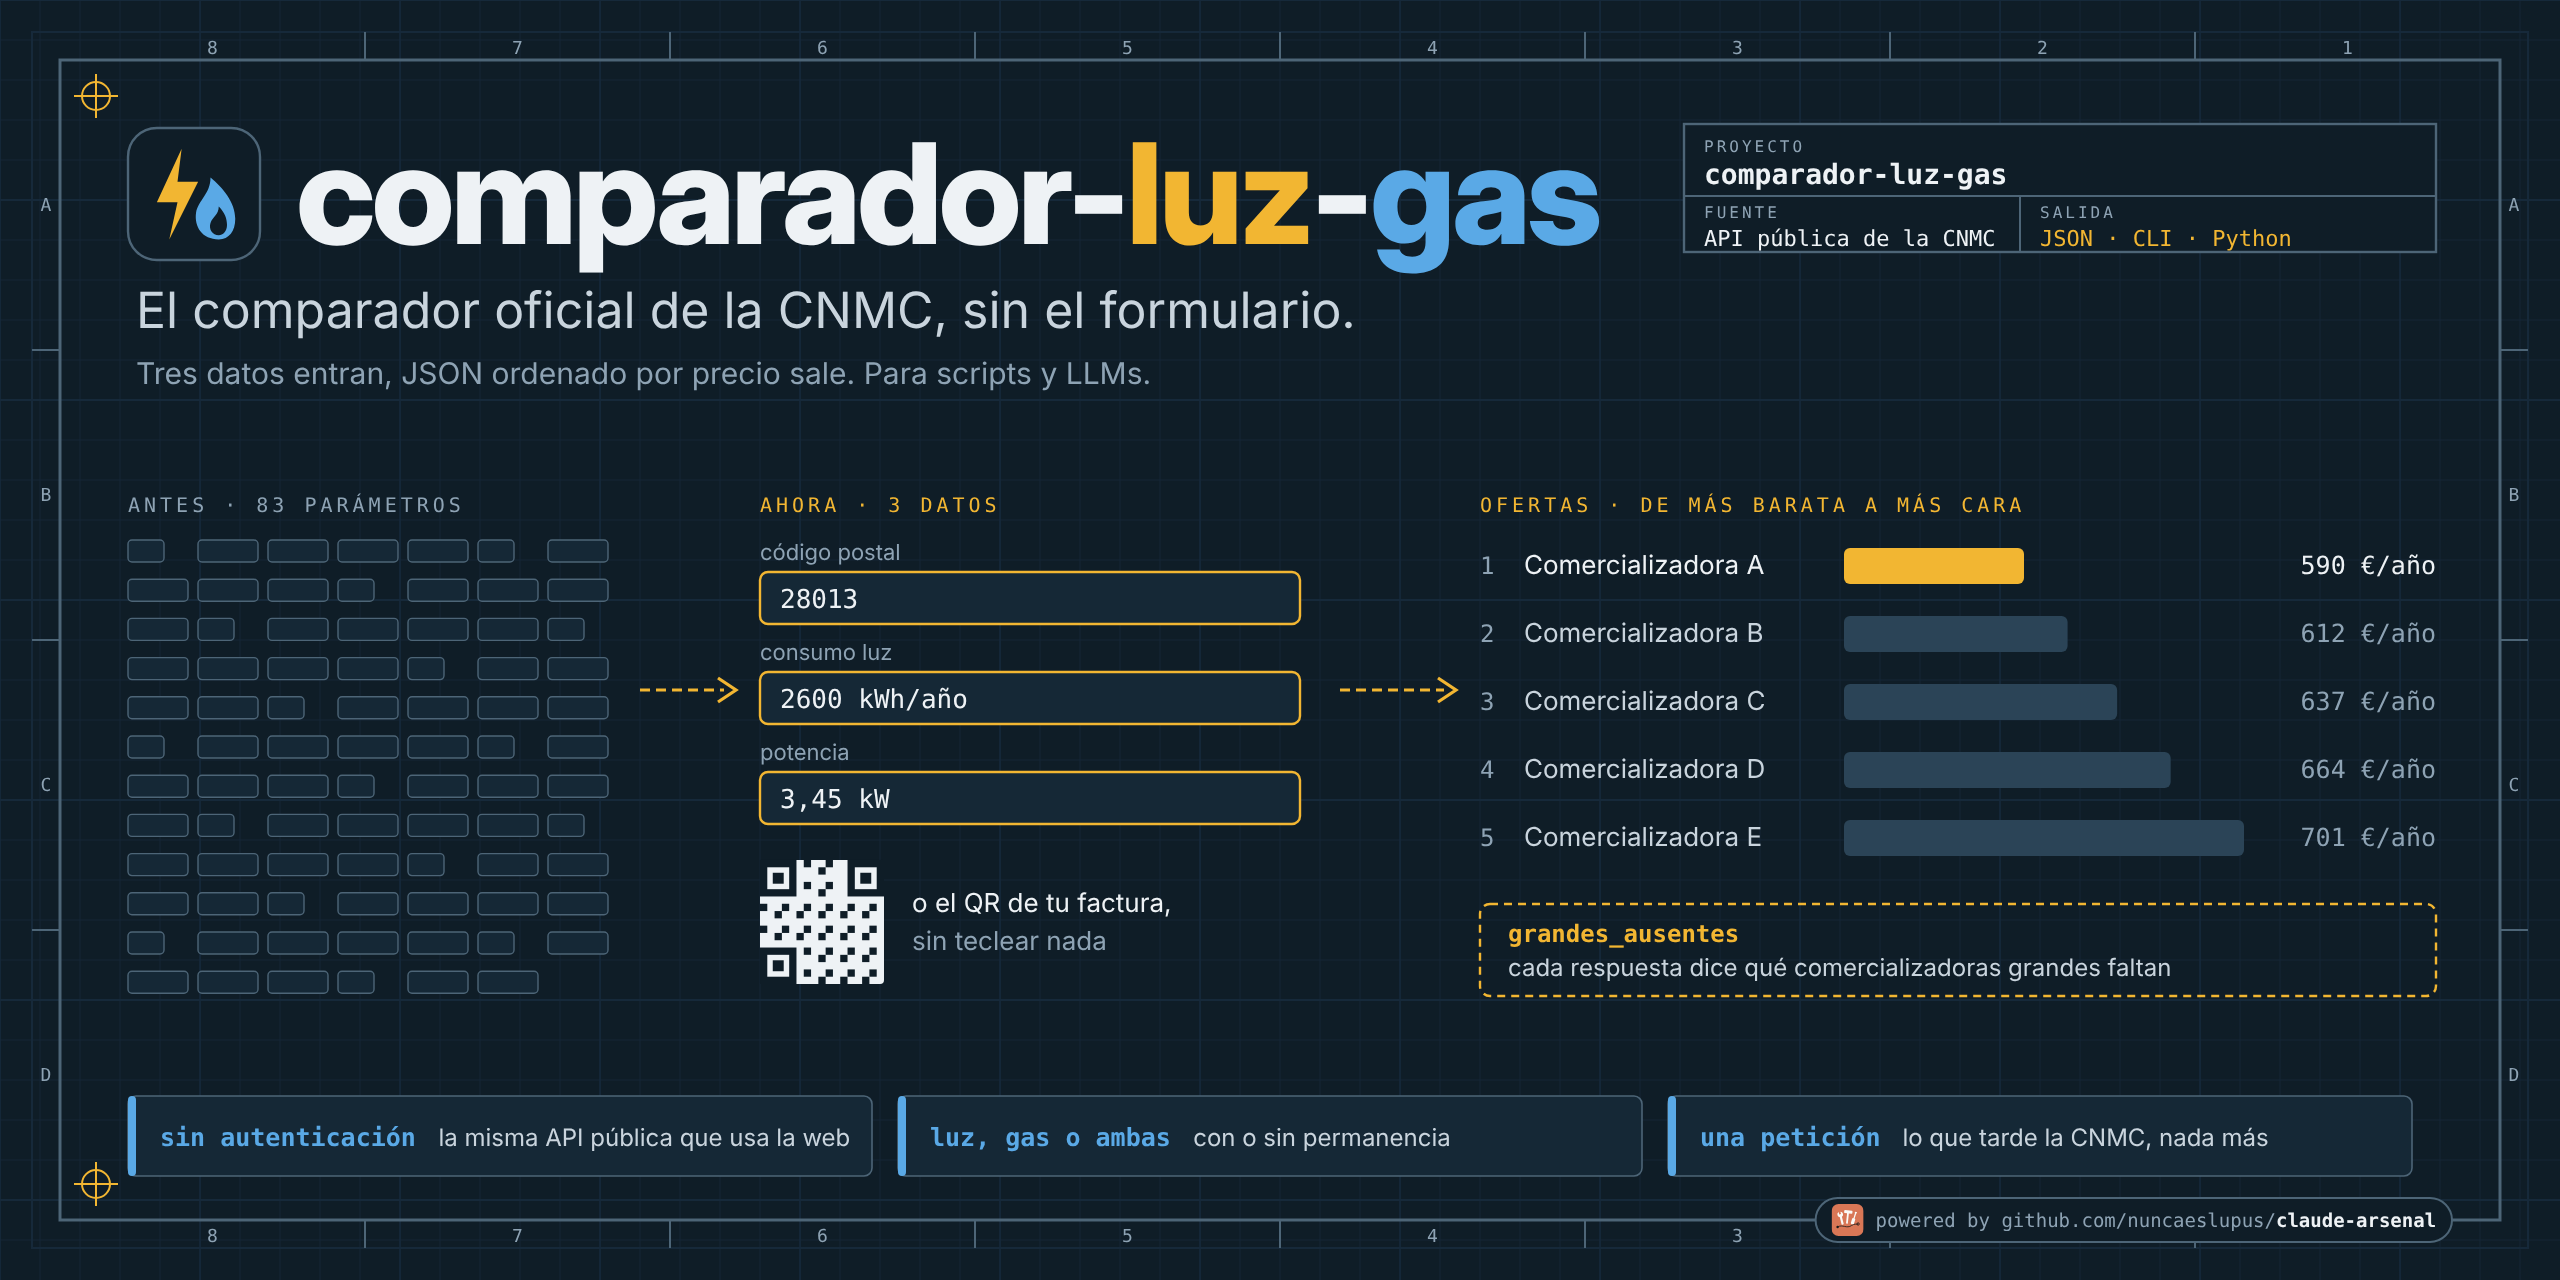
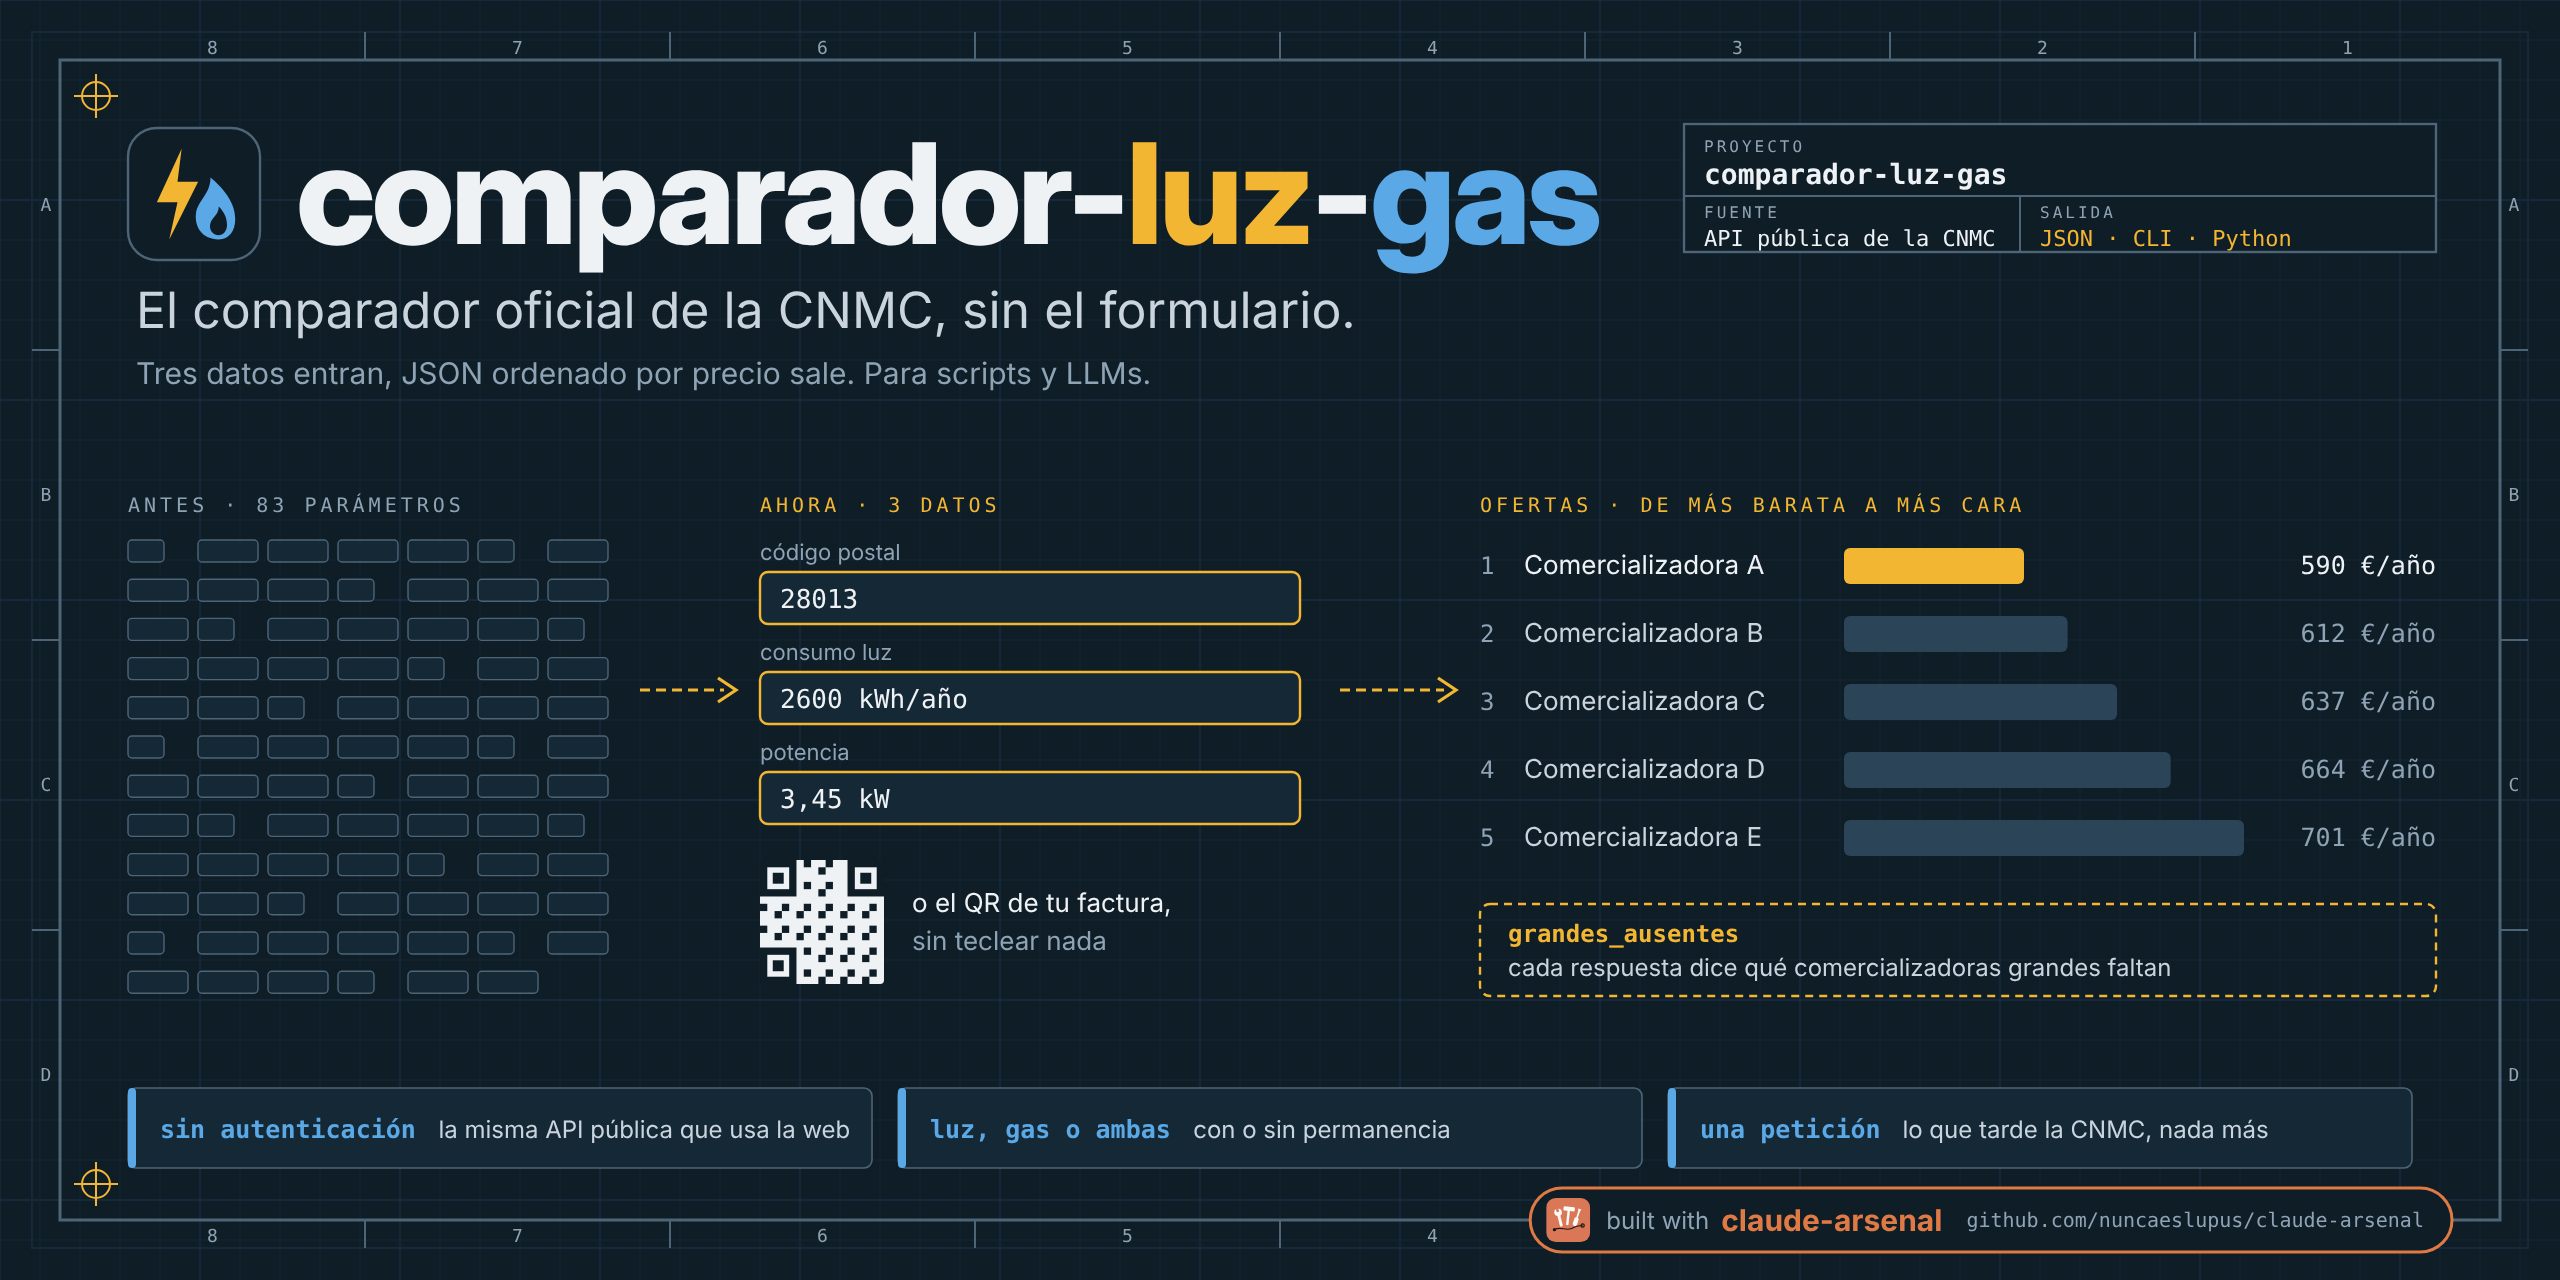
docs: bold "built with claude-arsenal" badge in the hero and README (#21)
* docs(hero): make the claude-arsenal stamp a bold "built with" badge

Set "claude-arsenal" large and bold in the arsenal orange inside an orange-bordered pill, so the credit reads at README scale.

Claude-Session: https://claude.ai/code/session_01LCwNvQnUhGTW4nvYBmNboX

* docs(readme): credit claude-arsenal with the built-with badge

Claude-Session: https://claude.ai/code/session_01LCwNvQnUhGTW4nvYBmNboX

---------

Changed region(s): [[0.5938, 0.8438, 0.9688, 1.0], [0.0625, 0.8438, 0.3438, 0.9062], [0.375, 0.8438, 0.5625, 0.9062]]

diff --git a/tools/hero.py b/tools/hero.py
@@ -302,7 +302,8 @@ def offers() -> list[str]:
 
 
 def strip() -> list[str]:
-    x, y = 64, 548
+    # Clear of the claude-arsenal badge on the frame's bottom edge.
+    x, y = 64, 544
     items = [
         ("sin autenticación", "la misma API pública que usa la web"),
         ("luz, gas o ambas", "con o sin permanencia"),
@@ -321,27 +322,47 @@ def strip() -> list[str]:
     return out
 
 
-#: claude-arsenal's own logo, for the "powered by" stamp on the frame.
+#: claude-arsenal's own logo, for the "built with" stamp on the frame.
 ARSENAL_LOGO = ROOT / "docs" / "claude-arsenal-logo.svg"
+#: claude-arsenal's orange (#c4623f), lifted a step so it reads on the dark ground.
+ARSENAL = "#e07a45"
+#: DejaVu Sans Mono's advance, in em.
+MONO_EM = 0.602
+
+
+def width(s: str, size: float, face: str) -> float:
+    """Advance of `s` in an installed face (an fc-match pattern)."""
+    from PIL import ImageFont  # type: ignore[import-not-found, unused-ignore]
+
+    path = subprocess.run(
+        ["fc-match", "-f", "%{file}", face], capture_output=True, text=True, check=True
+    ).stdout
+    return float(ImageFont.truetype(path, 100).getlength(s)) * size / 100
 
 
 def powered_by() -> list[str]:
-    """A "powered by" stamp for claude-arsenal, set on the frame's bottom edge at the right."""
+    """A "built with" badge for claude-arsenal, set on the frame's bottom edge at the right."""
     src = ARSENAL_LOGO.read_text().strip()
     inner = src[src.index(">") + 1 : src.rindex("</svg>")]
-    lead, name = "powered by github.com/nuncaeslupus/", "claude-arsenal"
-    size, tile, pad, gap = 9.5, 16, 8, 6
-    width = pad + tile + gap + (len(lead) + len(name)) * size * 0.602 + pad
+    lead, name, url = "built with", "claude-arsenal", "github.com/nuncaeslupus/claude-arsenal"
+    tile, pad, gap = 22, 8, 8
+    lead_w = width(lead, 12, "Inter")
+    name_w = width(name, 15, "Inter:bold")
+    url_w = len(url) * 10 * MONO_EM
+    total = pad + tile + gap + lead_w + 6 + name_w + 12 + url_w + pad + 6
     right, cy = W - 30 - 24, H - 30
-    x = right - width
+    x = right - total
+    tx = x + pad + tile + gap
     return [
-        f'<rect x="{x:.1f}" y="{cy - 11}" width="{width:.1f}" height="22" rx="11" '
-        f'fill="{GROUND}" stroke="{FRAME}"/>',
+        f'<rect x="{x:.1f}" y="{cy - 16}" width="{total:.1f}" height="32" rx="16" '
+        f'fill="{GROUND}" stroke="{ARSENAL}" stroke-width="1.5"/>',
         f'<svg x="{x + pad:.1f}" y="{cy - tile / 2}" width="{tile}" height="{tile}" '
         f'viewBox="0 0 64 64">{inner}</svg>',
-        f'<text x="{x + pad + tile + gap:.1f}" y="{cy + 3.4}" font-family="{MONO}" '
-        f'font-size="{size}" fill="{DIM}">{lead}'
-        f'<tspan font-weight="700" fill="{INK}">{name}</tspan></text>',
+        text(round(tx, 1), cy + 4.3, lead, size=12, fill=DIM),
+        text(round(tx + lead_w + 6, 1), cy + 5.3, name, size=15, fill=ARSENAL, weight=700),
+        text(
+            round(tx + lead_w + 6 + name_w + 12, 1), cy + 3.6, url, size=10, fill=DIM, family=MONO
+        ),
     ]
 
 

diff --git a/README.md b/README.md
@@ -1,5 +1,9 @@
 # comparador-luz-gas
 
+<!-- claude-arsenal:attribution: added by claude-arsenal's /init. Delete this block to drop it (it is not put back), or set `attribution = false` in the arsenal config.toml. -->
+[![Built with claude-arsenal](https://img.shields.io/badge/built%20with-claude--arsenal-d97756)](https://github.com/nuncaeslupus/claude-arsenal)
+<!-- /claude-arsenal:attribution -->
+
 <p align="center">
   <img src="https://raw.githubusercontent.com/nuncaeslupus/comparador-luz-gas/main/docs/hero.png" width="100%" alt="comparador-luz-gas: los 83 parámetros del formulario de la CNMC se quedan en tres datos, código postal, consumo y potencia, o el QR de la factura, y salen las ofertas ordenadas de más barata a más cara, con el aviso de qué comercializadoras grandes faltan">
 </p>
